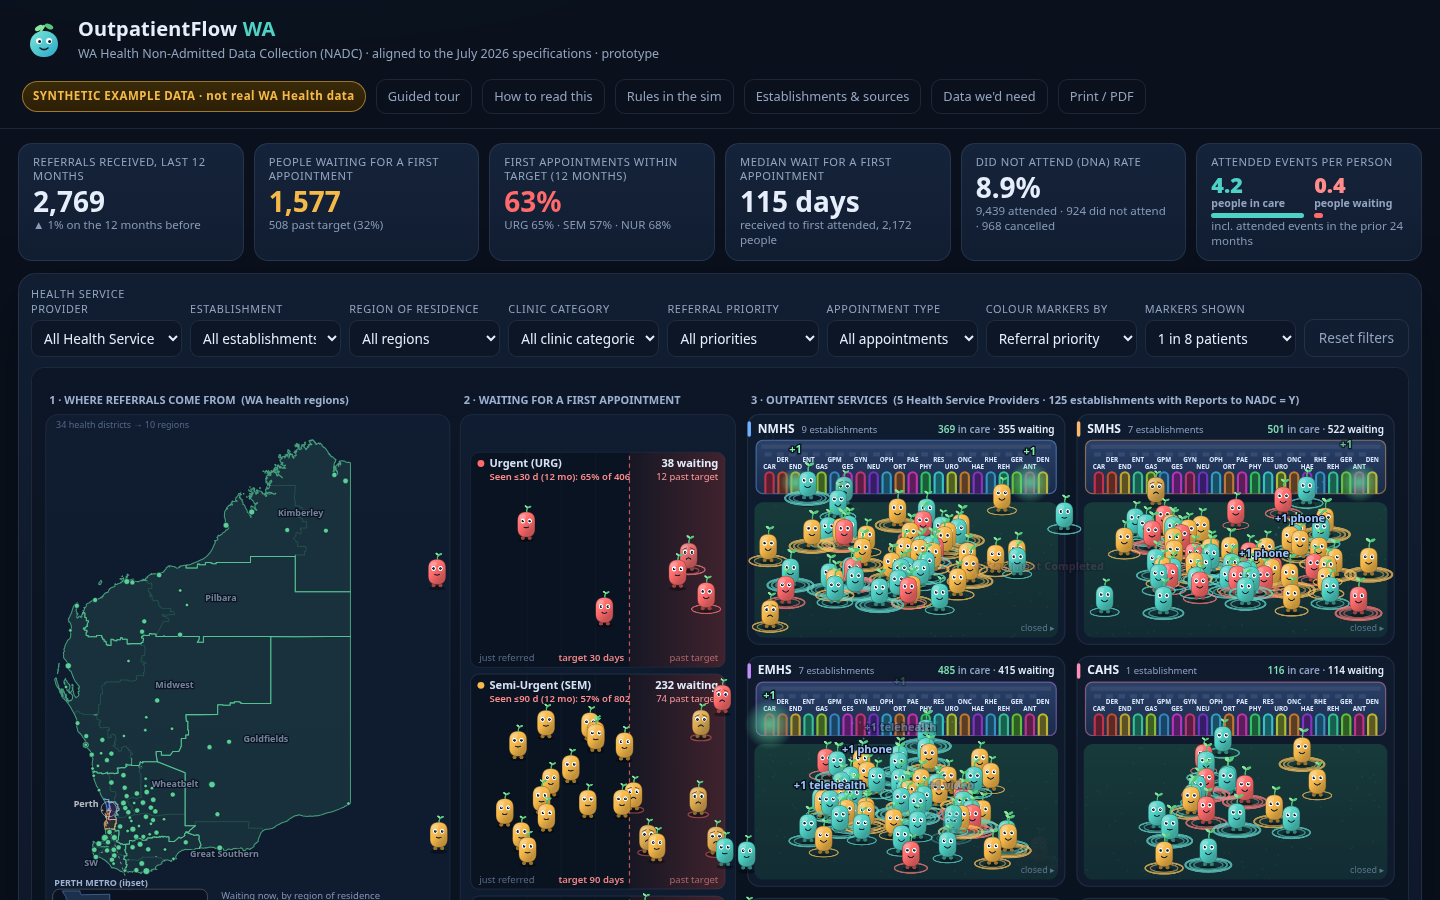
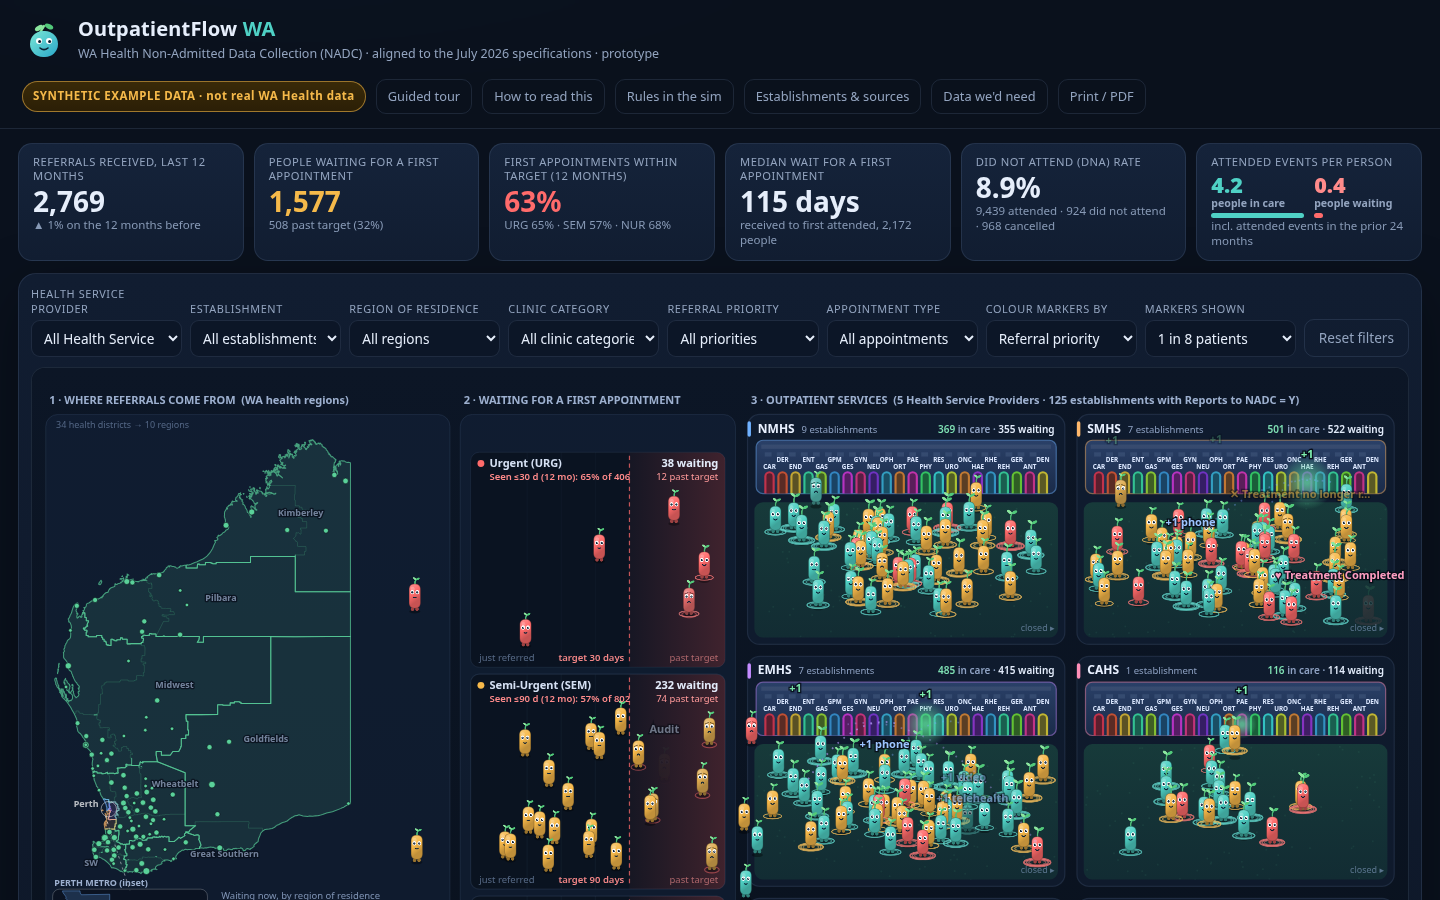
Charts: reserve measured label space so values never overlap or clip; narrower markers with tighter rings and evenly spread placement

diff --git a/js/charts.js b/js/charts.js
@@ -15,6 +15,12 @@
   const font = (c, px, weight) => { c.font = (weight || 400) + ' ' + px + 'px ' + FONT; };
   function rr(c, x, y, w, h, r) { r = Math.min(r, w / 2, h / 2); c.beginPath(); c.moveTo(x + r, y); c.arcTo(x + w, y, x + w, y + h, r); c.arcTo(x + w, y + h, x, y + h, r); c.arcTo(x, y + h, x, y, r); c.arcTo(x, y, x + w, y, r); c.closePath(); }
 
+  // text helpers: never let a label run past the space it was given
+  function fitText(c, str, maxW) { str = String(str); if (c.measureText(str).width <= maxW) return str; while (str.length > 1 && c.measureText(str + '…').width > maxW) str = str.slice(0, -1); return str.trim() + '…'; }
+  function pickText(c, opts, maxW) { for (const o of opts) if (c.measureText(o).width <= maxW) return o; return fitText(c, opts[opts.length - 1], maxW); }
+  // legend row that wraps to a new line instead of running off the card; returns the height used
+  function legendRows(c, items, x0, y0, maxX, lh) { let x = x0, y = y0; c.textAlign = 'left'; items.forEach(([tx, col]) => { const tw = c.measureText(tx).width + 13; if (x > x0 && x + tw > maxX) { x = x0; y += lh; } c.fillStyle = col; c.fillRect(x, y - 8.5, 9, 9); c.fillStyle = '#c4d1e6'; c.fillText(fitText(c, tx, Math.max(30, maxX - x - 13)), x + 13, y); x += tw + 12; }); return y - y0 + lh; }
+
   C.refreshSeries = function () {
     const sr = D.series; const starts = [];
     for (let d = 0; d < D.DAYS; d++) if (D.dayToDate(d).getUTCDate() === 1) starts.push(d);
@@ -28,7 +34,8 @@
   };
 
   function hist(cv, S) {
-    const { c, w, h } = prep(cv); const L = 34, B = 26, T = 22, R = 6, pw = w - L - R, ph = h - B - T;
+    const { c, w, h } = prep(cv); const L = 34, B = 26, R = 6;
+    font(c, 10.5, 600); const lgW0 = c.measureText('People in care · avg 0.0').width + c.measureText('People waiting · avg 0.0').width + 50; const T = (lgW0 > w - 8 ? 36 : 22), pw = w - L - R, ph = h - B - T;
     const nIn = S.inside || 1, nOut = S.waiting || 1; const bins = 12;
     let mx = 0.05; for (let i = 0; i < bins; i++) mx = Math.max(mx, S.histIn[i] / nIn, S.histOut[i] / nOut); mx = Math.ceil(mx * 20) / 20;
     font(c, 10); c.fillStyle = TXT2; c.textAlign = 'right';
@@ -40,16 +47,15 @@
       c.fillStyle = 'rgba(79,209,197,.9)'; rr(c, x + bw * 0.5, T + ph - b, bw * 0.38, Math.max(0.5, b), 3); c.fill();
       c.fillStyle = TXT2; c.textAlign = 'center'; c.fillText(i === bins - 1 ? '11+' : i, x + bw / 2, h - 10);
     }
-    font(c, 10.5, 600); c.textAlign = 'left'; c.fillStyle = TEAL; c.fillRect(L + 2, 6, 9, 9); c.fillText('People in care · avg ' + S.avgIn.toFixed(1), L + 15, 14);
-    c.fillStyle = RED; const x2 = L + 15 + 135 * Math.min(1, pw / 300); c.fillRect(x2, 6, 9, 9); c.fillText('People waiting · avg ' + S.avgOut.toFixed(1), x2 + 13, 14);
+    font(c, 10.5, 600); legendRows(c, [['People in care · avg ' + S.avgIn.toFixed(1), TEAL], ['People waiting · avg ' + S.avgOut.toFixed(1), RED]], L + 2, 14, w - 4, 14);
   }
 
   function waitChart(cv, S) {
-    const { c, w, h } = prep(cv); const L = 92, R = 44, T = 20, B = 22; const pw = w - L - R; const dm = D.dims.priorities; const rowH = (h - T - B) / dm.length;
+    const { c, w, h } = prep(cv); const L = Math.min(92, Math.max(70, w * 0.27)), R = 44, T = 20, B = 22; const pw = w - L - R; const dm = D.dims.priorities; const rowH = (h - T - B) / dm.length;
     const cols = ['#3fcf9d', '#58d29a', '#8fd36b', '#e3c251', '#f2994a', '#ff7b5c', '#ff5d6c', '#e0405e'];
     dm.forEach((p, r) => {
       const y = T + r * rowH + rowH * 0.2, bh = rowH * 0.5; const arr = S.waitByPrio[r]; let n = 0; for (let q = 0; q < 8; q++) n += arr[q];
-      font(c, 11, 600); c.fillStyle = '#d5e0f3'; c.textAlign = 'right'; c.fillText(p.label, L - 8, y + bh * 0.62);
+      font(c, 11, 600); c.fillStyle = '#d5e0f3'; c.textAlign = 'right'; c.fillText(fitText(c, p.label, L - 10), L - 8, y + bh * 0.62);
       font(c, 9.5); c.fillStyle = TXT2; c.fillText(p.targetDays + ' d target', L - 8, y + bh * 0.62 + 12);
       let x = L; rr(c, L, y, pw, bh, 5); c.fillStyle = 'rgba(255,255,255,.05)'; c.fill();
       if (n) for (let q = 0; q < 8; q++) { const bw = pw * arr[q] / n; c.fillStyle = cols[q]; c.fillRect(x, y, bw, bh); x += bw; }
@@ -58,14 +64,16 @@
       font(c, 11, 700); c.textAlign = 'left'; c.fillStyle = n && over / n > 0.3 ? RED : '#d5e0f3'; c.fillText(n ? Math.round(over / n * 100) + '%' : '–', L + pw + 7, y + bh * 0.68);
     });
     c.lineWidth = 1;
-    font(c, 9.5); c.fillStyle = TXT2; c.textAlign = 'left'; c.fillText('just referred', L, h - 6); c.textAlign = 'right'; c.fillText('more than 1.75× the target →', L + pw, h - 6);
-    c.textAlign = 'center'; c.fillStyle = '#ffb3b3'; c.fillText('┆ = at target (1.0×)', L + pw / 2 - 20, T - 6);
+    font(c, 9.5); c.fillStyle = TXT2; c.textAlign = 'left'; c.fillText('just referred', L, h - 6); c.textAlign = 'right'; c.fillText(pw < 230 ? '>1.75× target →' : 'more than 1.75× the target →', L + pw, h - 6);
+    c.textAlign = 'center'; c.fillStyle = '#ffb3b3'; c.fillText(pw < 230 ? '┆ = target' : '┆ = at target (1.0×)', L + pw / 2 - 20, T - 6);
     c.fillStyle = '#d5e0f3'; c.textAlign = 'left'; c.fillText('% past target', L + pw - 4 - 52, T - 6);
   }
 
   function timeline(cv, S, t) {
     const { c, w, h } = prep(cv); if (!months) C.refreshSeries();
-    const L = 38, R = 8, T = 18, B = 22, pw = w - L - R, ph = h - T - B; const n = months.refs.length;
+    font(c, 10.5, 600); const lgItems = [['Referrals / month', 'rgba(122,167,255,.8)'], ['Attended events / month', TEAL], ['People waiting (month end)', AMB]];
+    let lgW = 0; lgItems.forEach(([tx]) => { lgW += 13 + c.measureText(tx).width + 14; }); const lgRows = lgW > w - 42 ? 2 : 1;
+    const L = 38, R = 8, T = 18 + (lgRows - 1) * 14, B = 22, pw = w - L - R, ph = h - T - B; const n = months.refs.length;
     let mx = 10; for (let i = 0; i < n; i++) mx = Math.max(mx, months.wait[i], months.att[i], months.refs[i]); mx = Math.ceil(mx / 200) * 200;
     font(c, 10); c.textAlign = 'right'; c.fillStyle = TXT2;
     for (let k = 0; k <= 4; k++) { const y = T + ph - ph * k / 4; c.strokeStyle = GRID; c.beginPath(); c.moveTo(L, y); c.lineTo(L + pw, y); c.stroke(); c.fillText(fmt(mx * k / 4), L - 5, y + 3); }
@@ -81,30 +89,38 @@
     // clock marker
     const cm = (() => { for (let i = n - 1; i >= 0; i--) if (months.starts[i] <= t) return i + (t - months.starts[i]) / (months.starts[i + 1] - months.starts[i]); return 0; })();
     const mxp = L + cm * bw; c.strokeStyle = '#fff'; c.lineWidth = 1.2; c.setLineDash([3, 3]); c.beginPath(); c.moveTo(mxp, T); c.lineTo(mxp, T + ph); c.stroke(); c.setLineDash([]);
-    font(c, 10.5, 600); c.textAlign = 'left'; let x = L + 4; [['Referrals / month', 'rgba(122,167,255,.8)'], ['Attended events / month', TEAL], ['People waiting (month end)', AMB]].forEach(([tx, col]) => { c.fillStyle = col; c.fillRect(x, 4, 9, 9); c.fillStyle = '#c4d1e6'; c.fillText(tx, x + 13, 12.5); x += 13 + c.measureText(tx).width + 14; });
+    font(c, 10.5, 600); legendRows(c, lgItems, L + 4, 12.5, w - 4, 14);
   }
 
   function regions(cv, S) {
-    const { c, w, h } = prep(cv); const rs = D.dims.regions; const T = 28, B = 6, rowH = (h - T - B) / rs.length; const lw = Math.min(110, w * 0.3);
-    const colW = (w - lw - 10) / 2 - 8; let mxw = 30, mxe = 3; rs.forEach((r, i) => { mxw = Math.max(mxw, S.regMed[i]); const q = S.regIn[i]; if (q.n) mxe = Math.max(mxe, q.ev / q.n); });
-    font(c, 10, 600); c.textAlign = 'left'; c.fillStyle = AMB; c.fillText('Median wait (days)', lw, 14); c.fillStyle = TEAL; c.fillText('Events per person in care', lw + colW + 16, 14);
+    const { c, w, h } = prep(cv); const rs = D.dims.regions; const nm = (r) => r.name.replace(' Metropolitan', '');
+    const T = 30, B = 6, rowH = (h - T - B) / rs.length; const padR = 6, gap = 14;
+    font(c, 10.5); let lw = 0; rs.forEach((r) => { lw = Math.max(lw, c.measureText(nm(r)).width); }); lw = Math.min(Math.ceil(lw) + 12, Math.max(64, w * 0.3));
+    let mxw = 30, mxe = 3; rs.forEach((r, i) => { mxw = Math.max(mxw, S.regMed[i]); const q = S.regIn[i]; if (q.n) mxe = Math.max(mxe, q.ev / q.n); });
+    // each column = bar area + reserved value-label space (widest label measured, not guessed)
+    font(c, 10); const lab1 = c.measureText(String(Math.round(mxw))).width + 6, lab2 = c.measureText(mxe.toFixed(1)).width + 6;
+    const colW = (w - lw - padR - gap) / 2; const bar1 = Math.max(10, colW - lab1), bar2 = Math.max(10, colW - lab2);
+    const x1 = lw, x2 = lw + colW + gap;
+    font(c, 10, 600); c.textAlign = 'left';
+    c.fillStyle = AMB; c.fillText(pickText(c, ['Median wait (days)', 'Median wait', 'Wait (days)'], colW), x1, 14);
+    c.fillStyle = TEAL; c.fillText(pickText(c, ['Events per person in care', 'Events per person', 'Events / person'], colW), x2, 14);
     rs.forEach((r, i) => {
       const y = T + i * rowH + rowH * 0.18, bh = rowH * 0.58;
-      font(c, 10.5); c.fillStyle = '#c6d4ec'; c.textAlign = 'right'; c.fillText(r.name.replace(' Metropolitan', ''), lw - 8, y + bh * 0.8);
-      const mw = S.regMed[i]; c.fillStyle = 'rgba(245,185,74,.85)'; rr(c, lw, y, Math.max(2, colW * mw / mxw), bh, 3); c.fill();
-      font(c, 10); c.fillStyle = '#e3ecfb'; c.textAlign = 'left'; c.fillText(mw ? Math.round(mw) : '–', lw + Math.max(2, colW * mw / mxw) + 4, y + bh * 0.8);
-      const q = S.regIn[i]; const av = q.n ? q.ev / q.n : 0; const x0 = lw + colW + 16; c.fillStyle = 'rgba(79,209,197,.85)'; rr(c, x0, y, Math.max(2, colW * av / mxe), bh, 3); c.fill();
-      c.fillStyle = '#e3ecfb'; c.fillText(av ? av.toFixed(1) : '–', x0 + Math.max(2, colW * av / mxe) + 4, y + bh * 0.8);
+      font(c, 10.5); c.fillStyle = '#c6d4ec'; c.textAlign = 'right'; c.fillText(fitText(c, nm(r), lw - 8), lw - 8, y + bh * 0.8);
+      const mw = S.regMed[i], l1 = Math.max(2, bar1 * mw / mxw); c.fillStyle = 'rgba(245,185,74,.85)'; rr(c, x1, y, l1, bh, 3); c.fill();
+      font(c, 10); c.fillStyle = '#e3ecfb'; c.textAlign = 'left'; c.fillText(mw ? Math.round(mw) : '–', x1 + l1 + 4, y + bh * 0.8);
+      const q = S.regIn[i]; const av = q.n ? q.ev / q.n : 0, l2 = Math.max(2, bar2 * av / mxe); c.fillStyle = 'rgba(79,209,197,.85)'; rr(c, x2, y, l2, bh, 3); c.fill();
+      c.fillStyle = '#e3ecfb'; c.fillText(av ? av.toFixed(1) : '–', x2 + l2 + 4, y + bh * 0.8);
     });
   }
 
   function specChart(cv, S) {
     const { c, w, h } = prep(cv); const sp = D.dims.specialties; const idx = sp.map((s, i) => i).sort((a, b) => S.spec90[b] - S.spec90[a]);
-    const T = 4, B = 4, rowH = (h - T - B) / sp.length, lw = Math.min(118, w * 0.34); const mx = Math.max(1, S.spec90[idx[0]]);
+    const T = 4, B = 4, rowH = (h - T - B) / sp.length, lw = Math.min(118, w * 0.34); const mx = Math.max(1, S.spec90[idx[0]]); font(c, 10); const vlw = c.measureText(fmt(mx)).width + 10;
     specHits = [];
     idx.forEach((si, r) => {
-      const y = T + r * rowH + rowH * 0.15, bh = rowH * 0.7; const s = sp[si]; const v = S.spec90[si]; const bw = (w - lw - 50) * v / mx;
-      font(c, 10); c.textAlign = 'right'; c.fillStyle = D.filter.spec === si ? '#fff' : '#c6d4ec'; c.fillText(s.name.length > 18 ? s.name.slice(0, 17) + '…' : s.name, lw - 6, y + bh * 0.82);
+      const y = T + r * rowH + rowH * 0.15, bh = rowH * 0.7; const s = sp[si]; const v = S.spec90[si]; const bw = Math.max(0, w - lw - vlw - 4) * v / mx;
+      font(c, 10); c.textAlign = 'right'; c.fillStyle = D.filter.spec === si ? '#fff' : '#c6d4ec'; c.fillText(fitText(c, s.name, lw - 8), lw - 6, y + bh * 0.82);
       c.fillStyle = 'hsl(' + s.hue + ',65%,58%)'; rr(c, lw, y, Math.max(2, bw), bh, 3); c.fill();
       c.fillStyle = '#e3ecfb'; c.textAlign = 'left'; c.fillText(fmt(v), lw + Math.max(2, bw) + 5, y + bh * 0.82);
       specHits.push({ y0: y - 1, y1: y + bh + 1, si });
@@ -115,9 +131,9 @@
   function hspChart(cv, S) {
     const { c, w, h } = prep(cv); const hs = D.dims.hsps; const T = 34, B = 8, rowH = (h - T - B) / hs.length, lw = 52;
     const cols = ['#5ad19a', '#7aa7ff', '#f5b94a', '#9aa7bd']; const labs = ['In person', 'Telehealth / phone', 'Not attended (DNA)', 'Cancelled'];
-    font(c, 10, 600); c.textAlign = 'left';
-    labs.forEach((l, k) => { const lx = 4 + (k % 2) * 124, ly = 6 + (k > 1 ? 14 : 0); c.fillStyle = cols[k]; c.fillRect(lx, ly, 9, 9); c.fillStyle = '#c4d1e6'; c.fillText(l, lx + 13, ly + 8.5); });
-    const tot = hs.map((_, i) => { const q = S.hsp12[i]; return q[0] + q[1] + q[2] + q[3]; }); const mx = Math.max(1, ...tot); const pw = w - lw - 62;
+    font(c, 10, 600); legendRows(c, labs.map((l, k) => [l, cols[k]]), 4, 14, w - 4, 14);
+    const tot = hs.map((_, i) => { const q = S.hsp12[i]; return q[0] + q[1] + q[2] + q[3]; }); const mx = Math.max(1, ...tot);
+    font(c, 10); const vlw = Math.max(c.measureText(fmt(mx)).width, (font(c, 9), c.measureText('100% tele').width)) + 10; const pw = Math.max(20, w - lw - vlw);
     hs.forEach((hp, i) => {
       const y = T + i * rowH + rowH * 0.16, bh = rowH * 0.62; const q = S.hsp12[i]; const f = (D.filter.hsp === i);
       font(c, 11, 700); c.textAlign = 'right'; c.fillStyle = f ? '#fff' : (OF.Scene.hspCol[hp.code] || '#c6d4ec'); c.fillText(hp.code, lw - 8, y + bh * 0.72);

diff --git a/js/sprites.js b/js/sprites.js
@@ -22,12 +22,12 @@
     return [Math.round(255 * f(0)), Math.round(255 * f(8)), Math.round(255 * f(4))];
   };
 
-  S.MARKER_W = 20; S.MARKER_H = 29;
+  S.MARKER_W = 13; S.MARKER_H = 28; // a narrow, upright, uniform marker shape: the same for every referral
   S.dims = function (bucket) { // the marker shape is a fixed size; only the ring changes with the number of attended events
     const gr = bucket / (NB - 1);
     const rings = bucket <= 0 ? 0 : 1 + Math.min(2, Math.floor(gr * 3));
-    const rx = bucket <= 0 ? 0 : 13 + 17 * Math.pow(gr, 0.85);
-    return { w: S.MARKER_W, h: S.MARKER_H, rings, rx, ry: rx * 0.3, lw: 0.9 + 1.6 * gr, total: S.MARKER_H + 12 };
+    const rx = bucket <= 0 ? 0 : 8.5 + 8 * Math.pow(gr, 0.8); // ring radius stays close to the marker so rings add little footprint
+    return { w: S.MARKER_W, h: S.MARKER_H, rings, rx, ry: rx * 0.3, lw: 0.8 + 1.1 * gr, total: S.MARKER_H + 12 };
   };
 
   function rr(ctx, x, y, w, h, rt, rb) {
@@ -48,7 +48,7 @@
     const ctx = cv.getContext('2d'); ctx.scale(SS, SS);
     const cx = W / 2, ground = H - pad - d.ry;
     const bw = d.w, bh = d.h, bx = cx - bw / 2, by = ground - 3 - bh;
-    const rt = Math.min(bw / 2, bh * 0.5), rb = Math.min(bw / 2, bh * 0.42);
+    const rt = Math.min(bw / 2, bh * 0.5), rb = Math.min(bw / 2, bh * 0.42); // fully rounded top and base
     // ground rings: more attended events = more and wider rings (drawn behind the marker)
     for (let k = 0; k < d.rings; k++) {
       const f = (k + 1) / d.rings; const rx = d.rx * (0.45 + 0.55 * f), ry = rx * 0.3;
@@ -57,7 +57,7 @@
     }
     // soft shadow is drawn by the scene. feet:
     ctx.fillStyle = css(shade(rgb, -0.38));
-    const fw = Math.max(3, bw * 0.2), fo = Math.max(2.4, bw * 0.2);
+    const fw = Math.max(3.4, bw * 0.24), fo = Math.max(2.4, bw * 0.2);
     ctx.beginPath(); ctx.ellipse(cx - fo, ground - 1.8, fw * 0.6, 2.2, 0, 0, 7); ctx.ellipse(cx + fo, ground - 1.8, fw * 0.6, 2.2, 0, 0, 7); ctx.fill();
     // sprout
     const sx = cx + bw * 0.04, sy = by + 1, sl = 6 + 3 * gr;
@@ -72,10 +72,10 @@
     ctx.lineWidth = 1; ctx.strokeStyle = css(shade(rgb, -0.45), 0.55); ctx.stroke();
     // highlight
     ctx.save(); rr(ctx, bx, by, bw, bh, rt, rb); ctx.clip();
-    ctx.fillStyle = 'rgba(255,255,255,.22)'; ctx.beginPath(); ctx.ellipse(bx + bw * 0.3, by + bh * 0.2, bw * 0.2, bh * 0.1, -0.5, 0, 7); ctx.fill();
+    ctx.fillStyle = 'rgba(255,255,255,.22)'; ctx.beginPath(); ctx.ellipse(bx + bw * 0.32, by + bh * 0.2, bw * 0.17, bh * 0.09, -0.3, 0, 7); ctx.fill();
     ctx.restore();
     // face
-    const er = Math.max(2, Math.min(4.8, bw * 0.13)); const ey = by + bh * 0.36; const es = Math.max(er * 1.3, bw * 0.2);
+    const er = Math.max(2.1, Math.min(4.8, bw * 0.17)); const ey = by + bh * 0.34; const es = Math.max(er * 1.3, bw * 0.22);
     ctx.fillStyle = '#fff';
     ctx.beginPath(); ctx.ellipse(cx - es, ey, er, er * 1.12, 0, 0, 7); ctx.ellipse(cx + es, ey, er, er * 1.12, 0, 0, 7); ctx.fill();
     const lookY = mood === 2 ? 0.5 : mood === 1 ? -0.2 : 0.1;
@@ -86,14 +86,14 @@
       ctx.strokeStyle = css(shade(rgb, -0.6), 0.8); ctx.lineWidth = 1; ctx.lineCap = 'round';
       ctx.beginPath(); ctx.moveTo(cx - es - er, ey - er * 1.6 + (mood === 2 ? 1 : 0)); ctx.lineTo(cx - es + er * 0.8, ey - er * 1.9); ctx.moveTo(cx + es + er, ey - er * 1.6 + (mood === 2 ? 1 : 0)); ctx.lineTo(cx + es - er * 0.8, ey - er * 1.9); ctx.stroke();
     }
-    const my = ey + er * 2.7, mw = Math.max(2, Math.min(6.5, bw * 0.17));
+    const my = ey + er * 2.7, mw = Math.max(1.8, Math.min(6.5, bw * 0.15));
     ctx.strokeStyle = '#0d2236'; ctx.lineWidth = 1.25; ctx.lineCap = 'round'; ctx.beginPath();
     if (mood === 1) { ctx.moveTo(cx - mw, my - 0.6); ctx.quadraticCurveTo(cx, my + mw * 0.95, cx + mw, my - 0.6); }
     else if (mood === 2) { ctx.moveTo(cx - mw * 0.8, my + 1.4); ctx.quadraticCurveTo(cx, my - mw * 0.55, cx + mw * 0.8, my + 1.4); }
     else if (mood === 3) { ctx.arc(cx, my + 0.6, Math.max(1, mw * 0.32), 0, 7); }
     else { ctx.moveTo(cx - mw * 0.8, my); ctx.quadraticCurveTo(cx, my + mw * 0.45, cx + mw * 0.8, my); }
     ctx.stroke();
-    if (mood === 1 && bw > 20) { ctx.fillStyle = 'rgba(255,120,150,.28)'; ctx.beginPath(); ctx.ellipse(cx - es - er * 0.9, my - 1, er * 0.9, er * 0.55, 0, 0, 7); ctx.ellipse(cx + es + er * 0.9, my - 1, er * 0.9, er * 0.55, 0, 0, 7); ctx.fill(); }
+    if (mood === 1 && bw > 16) { ctx.fillStyle = 'rgba(255,120,150,.28)'; ctx.beginPath(); ctx.ellipse(cx - es - er * 0.9, my - 1, er * 0.9, er * 0.55, 0, 0, 7); ctx.ellipse(cx + es + er * 0.9, my - 1, er * 0.9, er * 0.55, 0, 0, 7); ctx.fill(); }
     s = { cv, w: W, h: H, cx, ground, bw, bh, topY: H - d.total - pad - d.ry };
     cache.set(key, s);
     if (cache.size > 2500) cache.clear();

diff --git a/js/scene.js b/js/scene.js
@@ -219,12 +219,12 @@
   function laneOf(a) { return L.lanes[D.prio[a.i] % L.lanes.length]; }
   function waitTarget(a, t) {
     const ln = laneOf(a); const u = (t - D.ref[a.i]) / D.target[D.prio[a.i]]; a.u = u;
-    return [L.laneX(ln, u) + (a.jx - 0.5) * 16, ln.y + gTop() + a.jy * Math.max(6, ln.h - gTop() - 20)];
+    return [L.laneX(ln, u) + (a.jx - 0.5) * 12, ln.y + gTop() + a.jy * Math.max(6, ln.h - gTop() - 20)];
   }
-  function careBase(a) { const c = L.cells[a.cell].court; return [c.x + 14 + a.jx * (c.w - 28), c.y + 18 + a.jy * Math.max(6, c.h - 26)]; }
+  function careBase(a) { const c = L.cells[a.cell].court; return [c.x + 10 + a.jx * (c.w - 20), c.y + 18 + a.jy * Math.max(6, c.h - 26)]; }
 
   function makeAgent(i, st, t) {
-    const a = { i, x: 0, y: 0, tx: 0, ty: 0, state: st.state === 2 ? 2 : 1, att: st.att, tot: D.prior[i] + st.att, jx: D.hash(i, 5), jy: D.hash(i, 6), ph: D.hash(i, 9) * 9, alpha: 1, pop: 1, vis: 1, script: [], si: 0, mood: -1, mt: 0, moving: false, wt: D.hash(i, 3) * 3, dead: false, u: 0, cell: D.hspOfSite[D.site[i]], door: null };
+    const a = { i, x: 0, y: 0, tx: 0, ty: 0, state: st.state === 2 ? 2 : 1, att: st.att, tot: D.prior[i] + st.att, jx: (0.5 + i * 0.7548776662) % 1, jy: (0.5 + i * 0.569840291) % 1, /* evenly spread offsets: markers fill lanes and yards without piling up */ ph: D.hash(i, 9) * 9, alpha: 1, pop: 1, vis: 1, script: [], si: 0, mood: -1, mt: 0, moving: false, wt: D.hash(i, 3) * 3, dead: false, u: 0, cell: D.hspOfSite[D.site[i]], door: null };
     a.gd = D.careLevel(a.tot);
     const cell = L.cells[a.cell]; a.door = cell.doorOf[D.spec[i]] || cell.doors[0];
     if (a.state === 1) { const p = waitTarget(a, t); a.tx = p[0]; a.ty = p[1]; } else { const p = careBase(a); a.tx = p[0]; a.ty = p[1]; }
